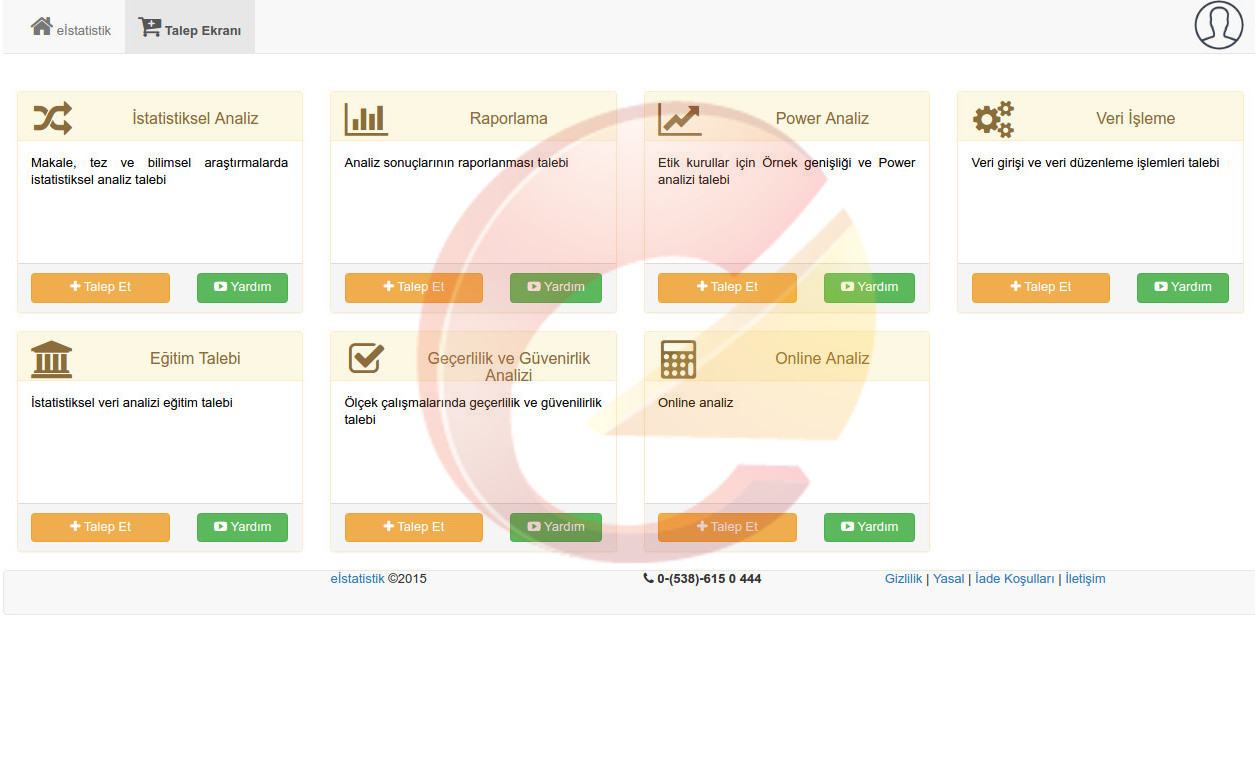
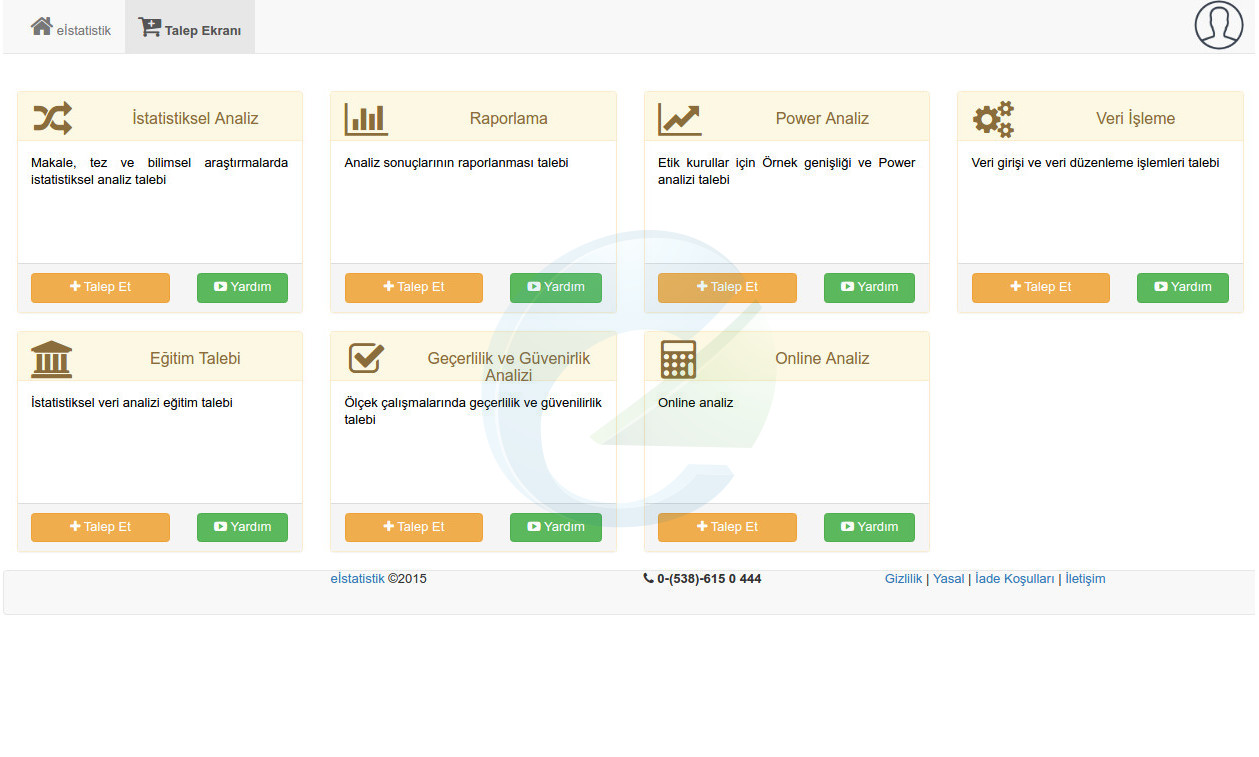
howto: mavi-yeşile geç

Changed region(s): [[0.3098, 0.1215, 0.7125, 0.7596]]

diff --git a/_includes/step2.html b/_includes/step2.html
@@ -147,27 +147,7 @@
 <script type="text/javascript">
   var active_no = 0;
 
-  swiper2 = new Swiper('.swiper-container', {
-      pagination: '.swiper-pagination',
-      paginationClickable: true,
-      direction: 'vertical',
-      effect: 'fade',
-      //autoplay: 500,
-  });
-
-  function howto_slideTo(element, event, no) {
-    event.preventDefault();
-    helper($(element), no);
-    active_no = no;
-  }
-
-  function helper(element, no) {
-    swiper2.slideTo(no, 2000);
-    $('.list-group-item').removeClass('active')
-    element.addClass('active');
-  }
-
-  setInterval(function(){
+  var sliderIntervalId = setInterval(function(){
     var active = $('.list-group-item.active');
     var first  = $('.list-group-item').siblings().first();
     var last   = $('.list-group-item').siblings().last();
@@ -180,6 +160,29 @@
       helper(active.next(), active_no);
     }
   }, 3000);
+
+  swiper2 = new Swiper('.swiper-container', {
+      pagination: '.swiper-pagination',
+      paginationClickable: true,
+      direction: 'vertical',
+      effect: 'fade',
+      //autoplay: 500,
+  });
+
+  function howto_slideTo(element, event, no) {
+    event.preventDefault();
+    helper($(element), no);
+    active_no = no;
+
+    clearInterval(sliderIntervalId);
+  }
+
+  function helper(element, no) {
+    swiper2.slideTo(no, 2000);
+    $('.list-group-item').removeClass('active')
+    element.addClass('active');
+  }
+
 </script>
 
 
